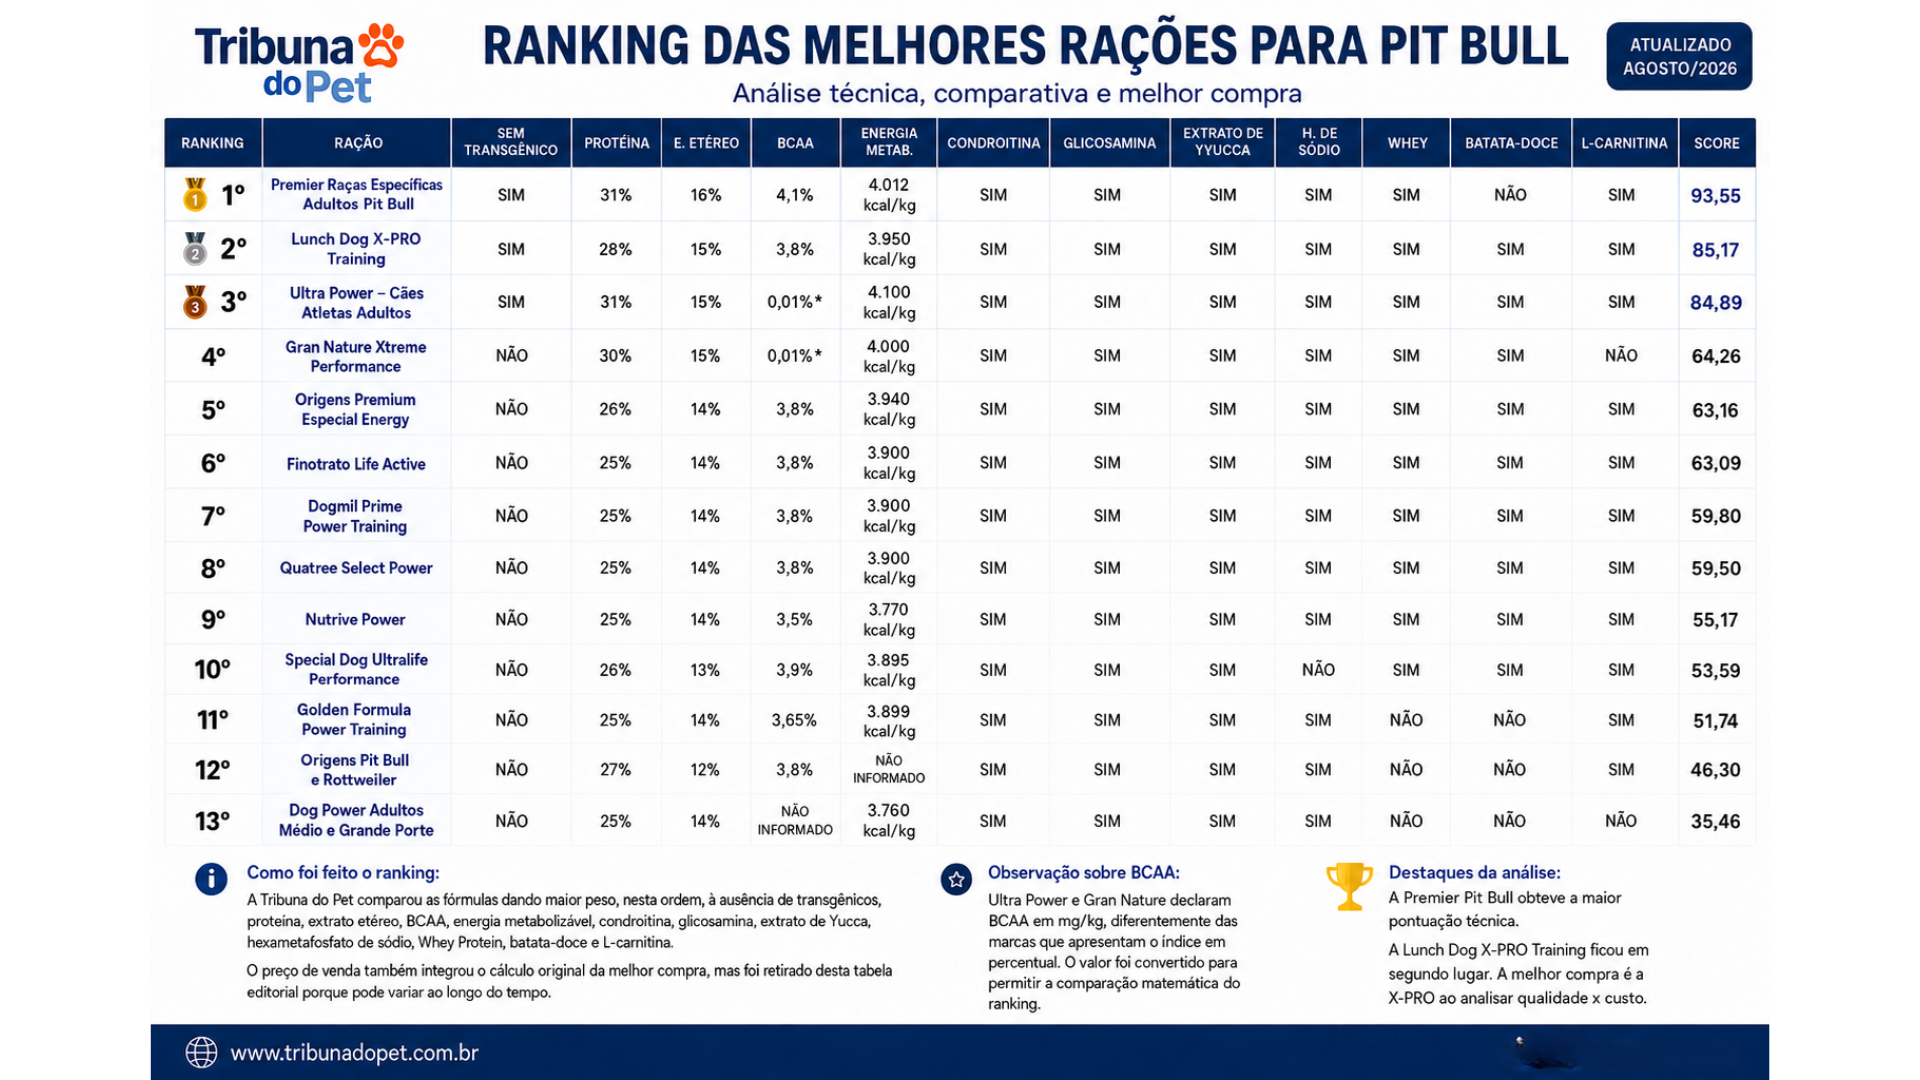
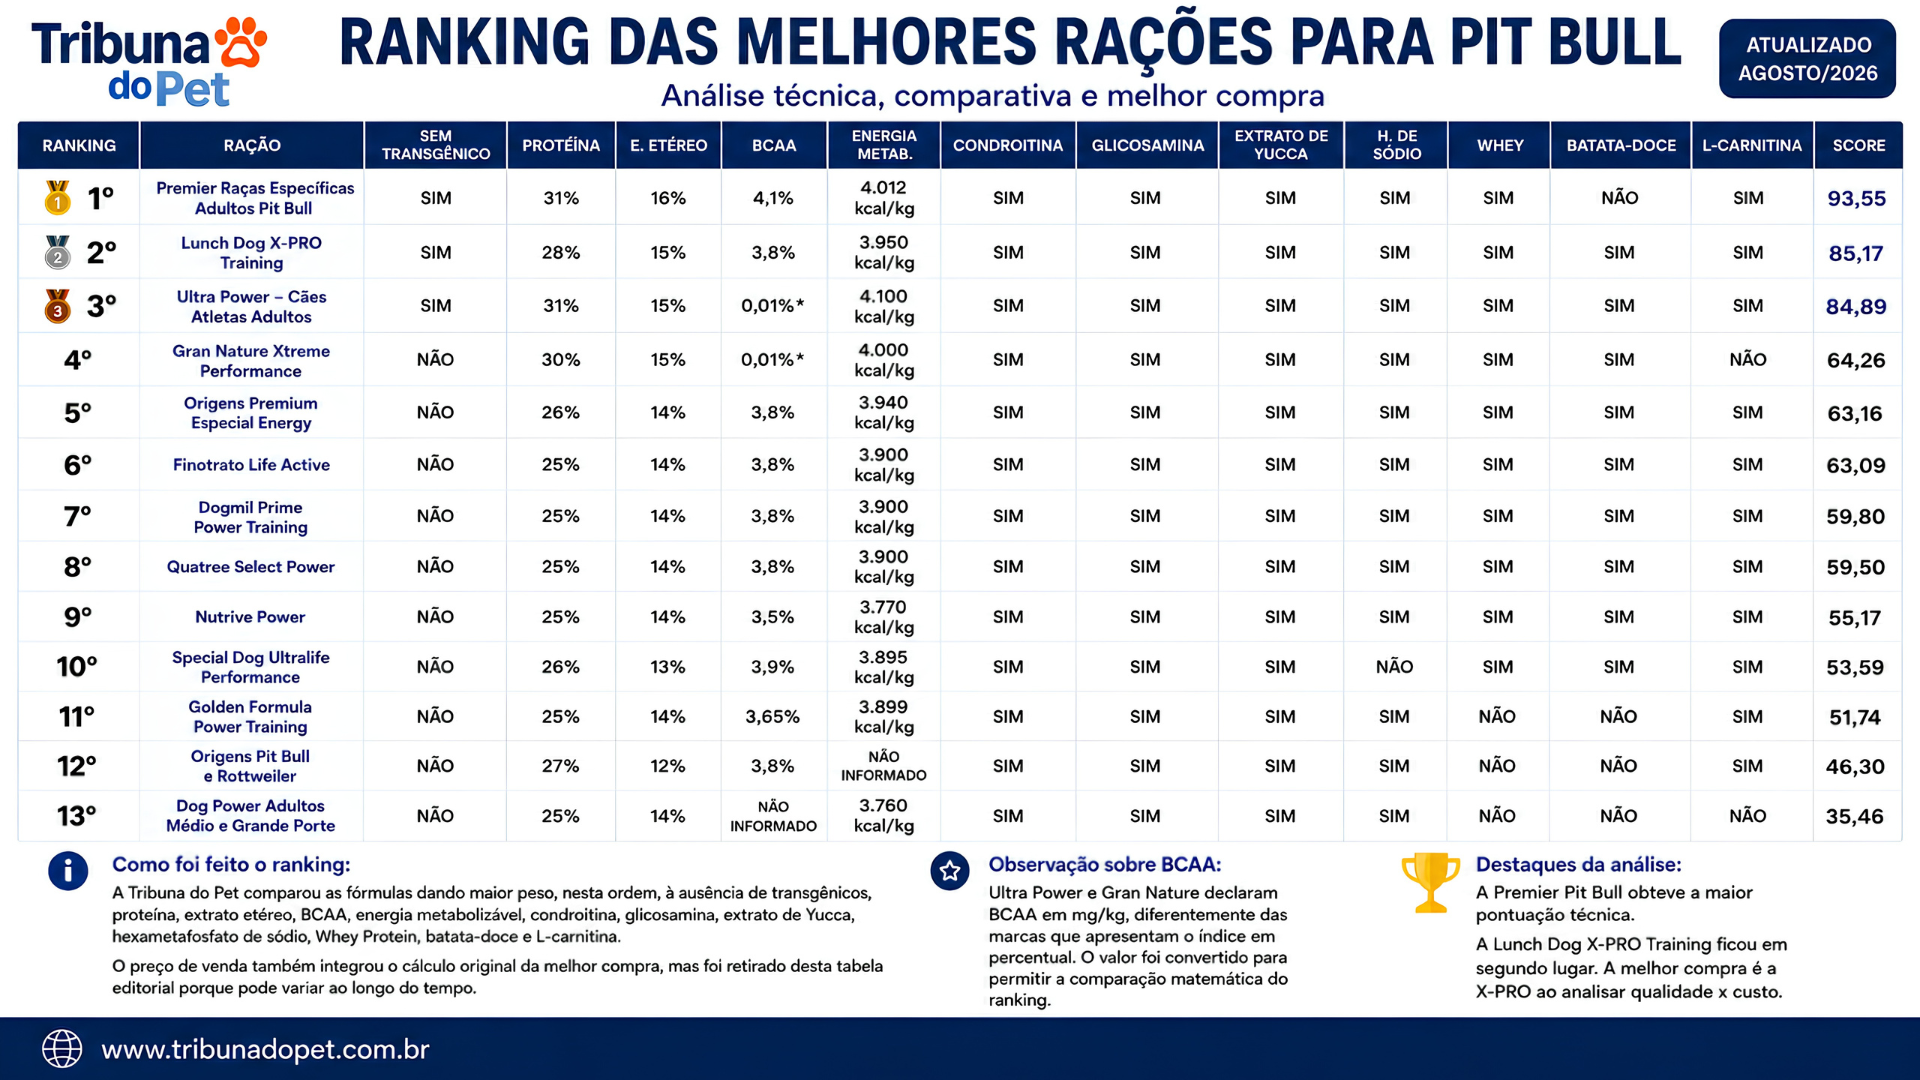
feat: add article page for best dog food for Pitbulls and active breeds with 2026 ranking

diff --git a/src/pages/articles/melhor-racao-para-pitbull-e-caes-ativos.jsx b/src/pages/articles/melhor-racao-para-pitbull-e-caes-ativos.jsx
@@ -13,7 +13,6 @@ import {
   FaTrophy
 } from "react-icons/fa";
 import { FaBowlFood } from "react-icons/fa6";
-import { MdOutlineWorkspacePremium } from "react-icons/md";
 import { Link } from "react-router-dom";
 import Footer from "../../components/Footer";
 import Header from "../../components/Header";
@@ -160,8 +159,8 @@ export default function MelhorRacaoPitbull() {
             <div className="p-5 mx-6 my-6 border-l-4 border-blue-500 md:mx-8 bg-blue-50 rounded-xl">
               <p className="text-lg font-medium leading-relaxed text-gray-800">
                 PremieR Pit Bull fica em primeiro lugar na avaliação técnica.
-                Lunch Dog X-PRO Training chega logo atrás e chama atenção pela
-                combinação de proteína animal, ovo em pó, Whey Protein, BCAA,
+                Lunch Dog X-PRO Training alcançou a segunda colocação e é o grande destaque que
+                combina proteína animal, ovo em pó, Whey Protein, BCAA,
                 energia, suporte articular e preço de venda competitivo.
               </p>
             </div>
@@ -195,7 +194,7 @@ export default function MelhorRacaoPitbull() {
                 </li>
                 <li className="flex items-center text-gray-800">
                   <FaCheckCircle className="mt-1 mr-2 text-green-500 flex-shrink-0" />
-                  <span>Logo atrás veio a <strong>Lunch Dog X-PRO Training</strong>, da Nutriponta, que se destacou como a <strong>Melhor Compra da avaliação</strong>.</span>
+                  <span>Na segunda colocação veio a <strong>Lunch Dog X-PRO Training</strong>, da Nutriponta, que se destacou como a <strong>Melhor Compra da avaliação</strong>.</span>
                 </li>
               </ul>
             </FadeIn>
@@ -252,7 +251,7 @@ export default function MelhorRacaoPitbull() {
             {/* Seção 2 */}
             <FadeIn delay={0.7}>
               <h2 className="flex items-center gap-3 pb-2 mb-6 text-2xl font-bold text-gray-900 border-b border-gray-200">
-                <MdOutlineWorkspacePremium className="text-3xl md:text-4xl text-blue-600 flex-shrink-0" />
+                <FaTrophy className="text-3xl md:text-4xl text-slate-400 flex-shrink-0" />
                 X-PRO Training: a segunda colocada que muda a discussão sobre a Melhor Compra
               </h2>
               <p className="mb-6 text-gray-700">
@@ -341,7 +340,7 @@ export default function MelhorRacaoPitbull() {
 
               <h3 className="mb-3 text-xl font-semibold text-gray-800">A X-PRO quer estar perto de quem cria e trabalha com cães</h3>
               <p className="mb-6 text-gray-700">
-                O posicionamento da marca também ajuda a entender para onde a Nutriponta quer levar a linha. Em agosto de 2026, a empresa participou do <strong>Mega Encontro de Criadores Origens</strong>, realizado em Itu, São Paulo, como Patrocinadora Master.
+                O posicionamento da marca também ajuda a entender para onde a Nutriponta quer levar a linha. Em agosto de 2026, a empresa participou do <a href="https://www.instagram.com/megaencontro_/" target="_blank" rel="noopener noreferrer" className="font-bold text-blue-600 hover:underline">Mega Encontro de Criadores Origens</a>, realizado em Itu, São Paulo, como Patrocinador Oficial.
               </p>
               <p className="mb-8 text-gray-700">
                 A Nutriponta também levou suas linhas ao ambiente profissional do setor pet em eventos como a <strong>Amigos Pet Brasil 2026</strong>, reforçando uma estratégia de aproximação com lojistas, distribuidores e profissionais do mercado.
